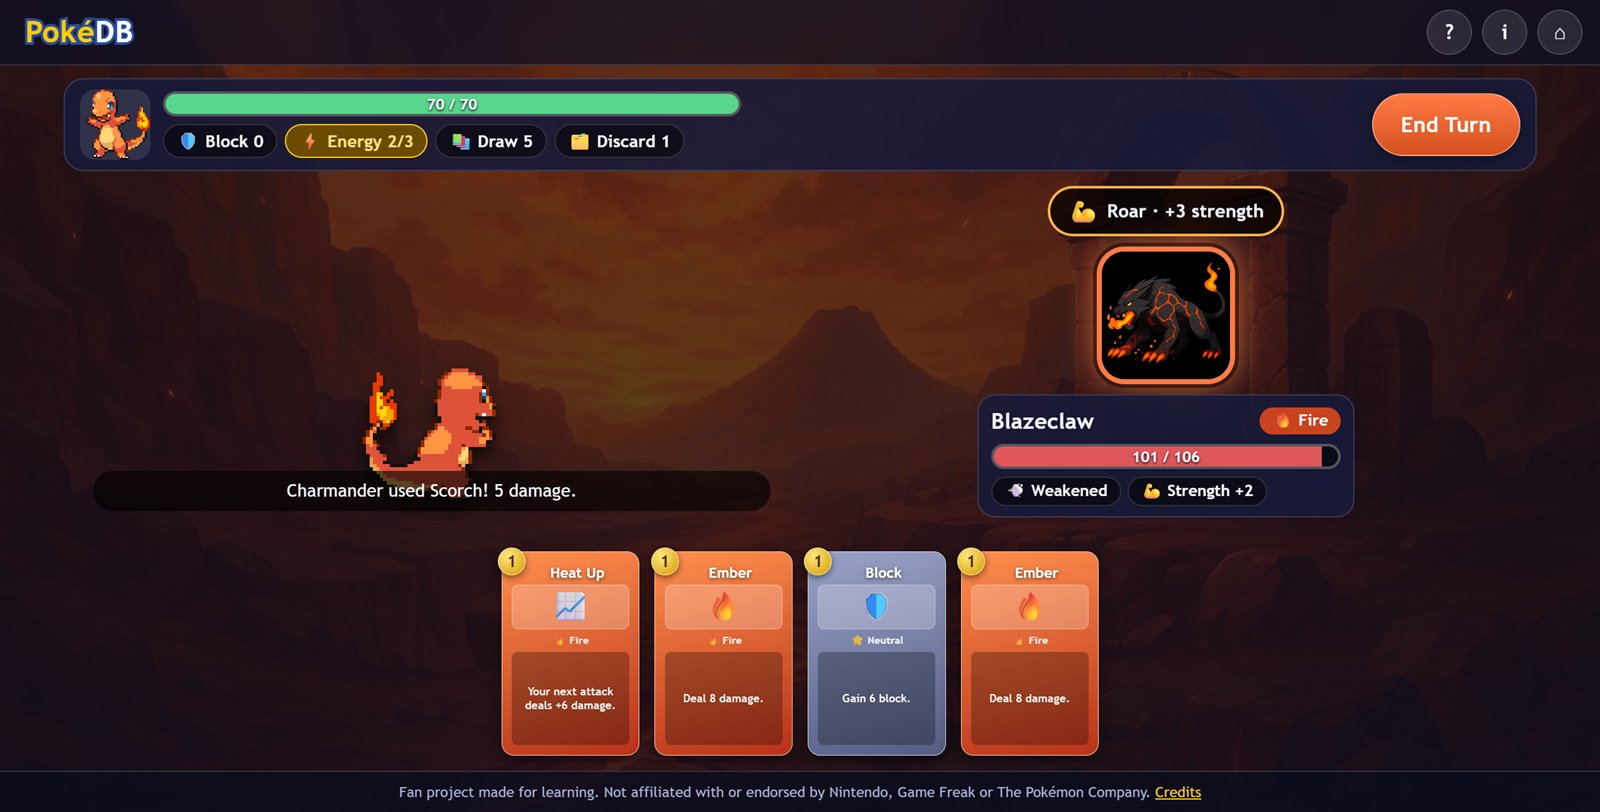
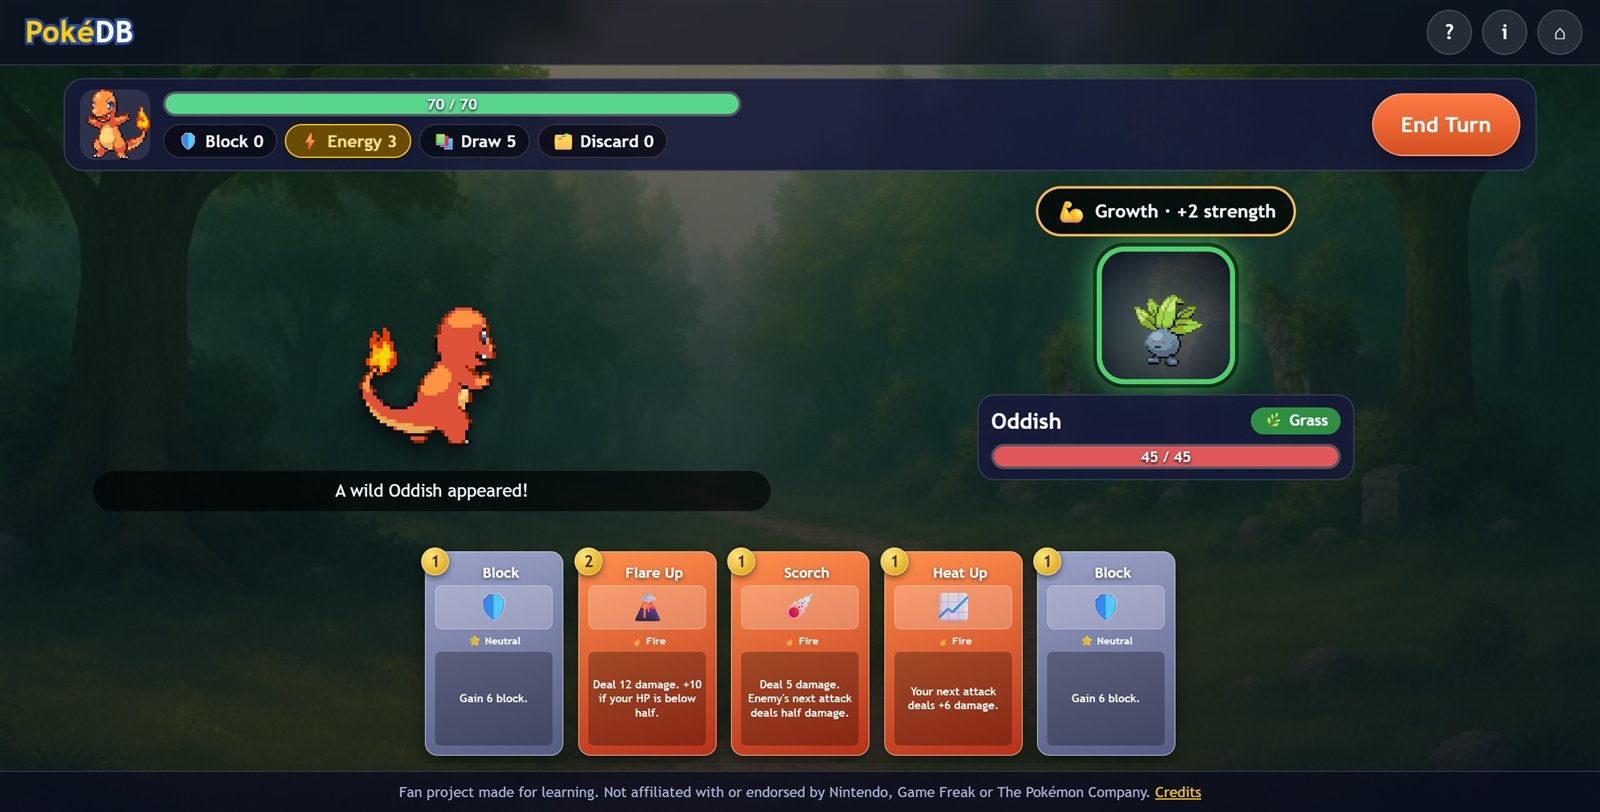
Update README and screenshots for the run-based game; add serve.ps1
serve.ps1 is a tiny local web server for Windows, needed because the game uses
JavaScript modules.

diff --git a/README.md b/README.md
@@ -1,6 +1,6 @@
 # PokéDB – Rogue-Like Deck Battler
 
-A browser game where you pick a starter, build a deck of move cards, and battle wild monsters turn by turn. It is built with plain HTML, CSS and JavaScript, with no frameworks and no build step.
+A browser roguelike deck-battler. Pick a starter, climb a branching map, grow your deck with new moves and relics, evolve, and beat three bosses. It is built with plain HTML, CSS and JavaScript, with no frameworks and no build step.
 
 **▶ Play it live: https://patreekare.github.io/pokeDB-3/**
 
@@ -10,11 +10,12 @@ A browser game where you pick a starter, build a deck of move cards, and battle 
 
 ## How to play
 
-1. **Pick a starter.** Charmander, Bulbasaur and Squirtle are free. The other six unlock as you win.
-2. **Build a deck** of 5–10 cards (up to 3 copies of each). Tap a card to add it, or drag it into the deck. Tap a card in your deck to remove it.
-3. **Battle.** Each turn you draw 5 cards and get 3 ⚡ energy. Tap a card to play it; the number in the gold corner is its cost.
-4. **Read the enemy's intent.** The bubble above the enemy shows what it will do next turn, so you can decide whether to attack or defend.
-5. **End your turn.** The enemy acts, then you draw a fresh hand. Reduce the enemy to 0 HP to win.
+1. **Pick a starter.** Charmander, Bulbasaur and Squirtle are free. Six more unlock through achievements. Each starter has its own fixed 10-card deck, which you can preview before you begin. There is no deck editor.
+2. **Climb the map.** Start at the bottom and choose a path upward: ⚔ fights, 💀 elites, 🏥 Pokémon Centers and 🎁 treasure. Your HP carries over between fights.
+3. **Battle.** Each turn you draw 5 cards and get 3 ⚡ energy. Tap a card to play it; the number in the gold corner is its cost. The bubble above the enemy shows what it will do next turn.
+4. **Grow your deck.** After a fight, pick 1 of 3 new moves. Elites, bosses and treasure give **relics**: held items with permanent bonuses.
+5. **Evolve.** Beat the boss of Biome 1 and Biome 2 and your Pokémon evolves: +20 max HP, a full heal, and all moves 25% stronger per stage.
+6. **Win the run** by beating the boss of Biome 3. If you faint, the run is over, but your unlocked starters and stats are kept.
 
 **Type chart:** 🔥 Fire beats 🌿 Grass, 🌿 Grass beats 💧 Water, 💧 Water beats 🔥 Fire (×1.5 damage; the reverse is ×0.5).
 
@@ -22,65 +23,77 @@ A browser game where you pick a starter, build a deck of move cards, and battle 
 
 ## Features
 
-- Nine starters, three types, and 16 cards for each starter's deck (8 type moves + 8 neutral moves). Some cards are locked until you have won enough battles.
-- Drag-and-drop **or** tap-to-add deck building, so it works with a mouse and on phones.
-- **Saved decks:** your deck is saved automatically for each starter, plus three manual save slots per starter, all in `localStorage`.
-- Turn-based battles with an energy system, draw/discard piles that reshuffle, enemy intent, type advantages and status effects.
-- Win streaks make the next enemy tougher, and your wins, losses and best streak are saved.
-- Responsive layout that works from phones to desktop, keyboard-accessible cards and buttons, and support for `prefers-reduced-motion`.
+- Nine starters (three types), each with its own fixed starting deck and three-stage evolution line.
+- A **branching map** for each of three biomes, with fights, elites, rest sites, treasure and a boss. A new map is generated every biome.
+- **Card rewards and relics:** 32 cards across common, uncommon and rare rarities, and 11 relics (Charcoal, Leftovers, Focus Sash, Scope Lens…).
+- **Turn-based battles** with an energy system, draw and discard piles that reshuffle, enemy intent, type advantages and status effects.
+- **Bosses:** Snorlax, Tangrowth and Salamence, each with its own move pattern.
+- **Achievements** unlock the six extra starters, saved in `localStorage`.
+- Responsive layout from phones to desktop, keyboard-accessible cards and buttons, and support for `prefers-reduced-motion`.
 
-| Deck builder | Phone |
+| Deck preview | Map |
 | --- | --- |
-| ![Deck builder](assets/screenshots/deck-builder.jpg) | ![Battle on a phone](assets/screenshots/mobile-battle.jpg) |
+| ![Deck preview](assets/screenshots/deck-preview.jpg) | ![Branching map](assets/screenshots/map.jpg) |
+
+| Phone: map | Phone: battle |
+| --- | --- |
+| ![Map on a phone](assets/screenshots/mobile-map.jpg) | ![Battle on a phone](assets/screenshots/mobile-battle.jpg) |
 
 ## Run it locally
 
-The code uses JavaScript modules (`import` / `export`). Browsers block modules on `file://` pages, so serve the folder with any tiny web server, for example:
+The code uses JavaScript modules (`import` / `export`). Browsers block modules on `file://` pages, so serve the folder with any tiny web server:
 
-- **VS Code:** install the *Live Server* extension, then *Go Live*, or
-- **Python:** run `python -m http.server` in this folder and open <http://localhost:8000>.
+- **Windows (no install needed):** run `powershell -ExecutionPolicy Bypass -File serve.ps1` in this folder and open <http://localhost:8123>.
+- **VS Code:** install the *Live Server* extension, then *Go Live*.
+- **Python:** run `python -m http.server` and open <http://localhost:8000>.
 
 There is nothing to install or build.
 
 ## How the code is organised
 
 ```
-index.html            the page: three screens + dialogs
+index.html            the page: all screens and dialogs
 css/
   base.css            colours (CSS variables), buttons, dialogs, bars
   cards.css           how a card looks
-  screens.css         layout of the start screen, deck builder and battle
+  screens.css         layout of every screen
 js/
   main.js             start screen and moving between screens
-  deckbuilder.js      the deck-building screen
+  run.js              one run: the map loop, rewards, evolution, the end
+  map.js              building and drawing the branching map
+  rewards.js          the "choose one" screen and what you are offered
   battle.js           the turn-based battle (rules on top, drawing below)
+  deckpreview.js      the read-only deck preview and deck pop-up
   storage.js          saving and loading with localStorage
-  progress.js         what is unlocked, based on your wins
-  ui.js               small shared helpers (dialogs, toasts, the card element)
+  progress.js         unlocking starters through achievements
+  ui.js               small shared helpers (dialogs, toasts, cards, relics)
   data/
     cards.js          every card, written as plain data
-    starters.js       the nine starters
-    enemies.js        the enemies and their move lists
+    starters.js       the nine starters, their decks and evolution lines
+    enemies.js        enemies, elites, bosses and the three biomes
+    relics.js         held items
+    achievements.js   how the locked starters are unlocked
 assets/               sprites, backgrounds, enemy art, screenshots
+serve.ps1             tiny local web server for Windows
 ```
 
-### Adding your own card
+### Balancing the game
 
-Cards are just objects in `js/data/cards.js`. The description text on the card is generated from the effects, so it always matches what the card does:
+All the numbers are plain data, so you can tune the game without touching the rules:
 
-```js
-{ id: 'ember', name: 'Ember', type: 'fire', cost: 1, art: '🔥', effects: { damage: 8 } },
-```
-
-Effects you can combine: `damage`, `bonusIfLow`, `block`, `heal`, `draw`, `nextEnergy`, `focus`, `weaken`, `burn`, `guard`, `needsWounded`. Add `unlockAt: 5` to lock a card until 5 total wins.
+- **Cards:** `js/data/cards.js`. For example `{ id: 'ember', name: 'Ember', type: 'fire', cost: 1, art: '🔥', effects: { damage: 8 } }`. The text on the card is generated from `effects`.
+- **Starter decks and HP:** `js/data/starters.js` (`deck`, `BASE_HP`, `HP_PER_STAGE`).
+- **Enemy HP and damage, and how much harder each biome gets:** `js/data/enemies.js` (`hpMult`, `dmgBonus`, `bossBonus`).
+- **How much stronger evolving makes your moves:** `STAGE_POWER` in `js/data/cards.js`.
+- **Relics and achievements:** `js/data/relics.js` and `js/data/achievements.js`.
 
 ## Credits and legal
 
-- **Pokémon sprites:** Gen 5 pixel art from the [PokeAPI sprites project](https://github.com/PokeAPI/sprites). The Pokémon and their artwork are © Nintendo / Creatures Inc. / GAME FREAK inc. and are used here under a non-commercial fan-project basis. No affiliation is claimed. If you are a rights holder and want something removed, please open an issue.
+- **Pokémon sprites:** Gen 5 pixel art from the [PokeAPI sprites project](https://github.com/PokeAPI/sprites), used for starters, evolutions, wild Pokémon and bosses. The Pokémon and their artwork are © Nintendo / Creatures Inc. / GAME FREAK inc. and are used here on a non-commercial fan-project basis. No affiliation is claimed. If you are a rights holder and want something removed, please open an issue.
 - **Enemy monsters (Ashroot, Blazeclaw, Aquaeye) and backgrounds:** original AI-assisted artwork created for this project.
 - **Code, card design and game rules:** Patrick ([patreekaRe](https://github.com/patreekaRe)). Rebuilt and restructured with help from Claude Code.
 - Emoji are rendered by your device's own emoji font.
 
 ## Ideas for later
 
-Relics, boss fights with special patterns, a map of encounters, more starters' unique cards, and sound effects.
+Catching wild Pokémon, mystery events, a shop, saving a run in progress, more bosses and biomes, and sound effects.
